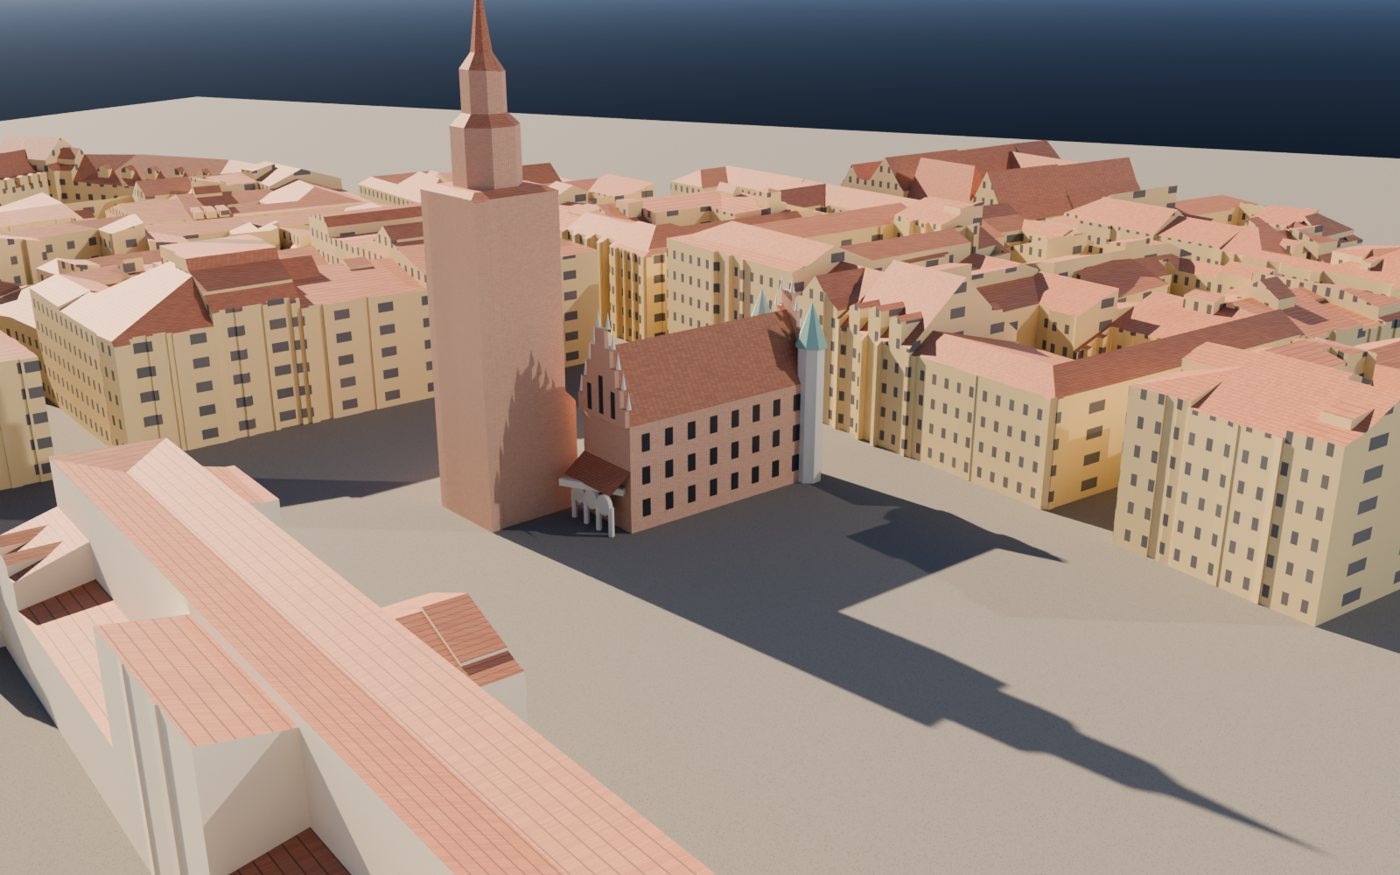
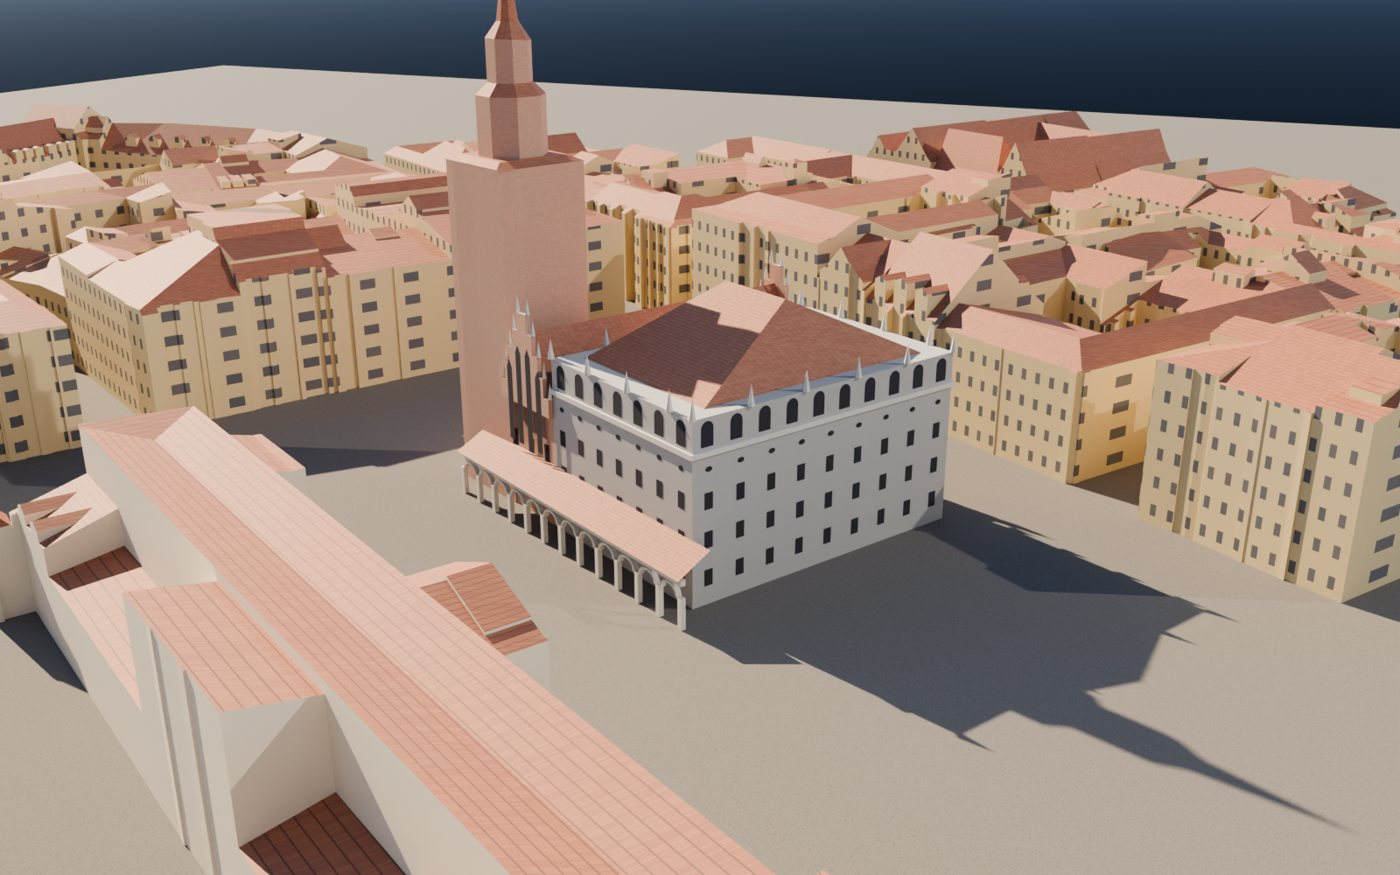
feat(3d): Town Hall rebuilt from the historical sources (v3)
The first model was a single Gothic hall; the sources show a larger complex around 1800.
Now after the ground plan (Tab. I), K. Balicki's elevations (1851), F. C. Dietrich (1820)
and M. Stachowicz (1797), all public domain on Commons:
- grey north block with a Renaissance attic (round blind arches, crest of pinnacles),
  oval windows, three rows of windows, a hipped roof behind the attic
- red-brick Gothic hall perpendicular to the Cloth Hall with stepped gables and pointed windows
- south-west prison wing with a crenellated gallery; an arcaded porch along the market front
Scale from the tower (plan has no scale bar), stated as approximate.

diff --git a/src/data/lens.ts b/src/data/lens.ts
@@ -55,8 +55,8 @@ export const lensPoints: LensPoint[] = [
       {
         key: 'ratusz-1800',
         year: 'c.1800',
-        title: 'Reconstruction: the Town Hall before 1820, its outline and height only (not a view)',
-        credit: 'KrakowLoop reconstruction after the city plan by D. Pucek (1787) and M. Kowalski, P. Opaliński (Historical Museum of Kraków); buildings: GUGiK LoD2',
+        title: 'Reconstruction: the Town Hall before 1820, after the 1851 elevations and the ground plan (not a view)',
+        credit: 'KrakowLoop reconstruction after K. Balicki (1851), the ground plan (Tab. I), F. C. Dietrich (1820) and M. Stachowicz (1797); buildings: GUGiK LoD2',
         license: 'CC BY 4.0',
         sourceUrl: 'https://pl.wikipedia.org/wiki/Ratusz_w_Krakowie',
         image: require('../../assets/lens/ratusz_1800_rekonstrukcja.jpg'),

diff --git a/scripts/3d/render-rynek-1800.py b/scripts/3d/render-rynek-1800.py
@@ -6,16 +6,17 @@ Town Hall ("then") and without it ("today"), for the Time Lens comparison.
 Run (no window):
   "C:/Program Files/Blender Foundation/Blender 5.2/blender.exe" -b -P scripts/3d/render-rynek-1800.py -- <out dir> [samples]
 
-What is known and used (sources in the app's credits):
-  - Town Hall: stone and brick, rectangle 30 x 10 m, perpendicular to the Cloth Hall, in the
-    south-western part of the square; the tower adjoined it on the south-east; three storeys;
-    stepped, blind-arched gables with pinnacles; octagonal turrets on the western corners; an arcaded
-    loggia on the eastern corner. Demolished 1820 (the tower stayed). pl.wikipedia.org/wiki/Ratusz_w_Krakowie,
-    medievalheritage.eu (after M. Kowalski and P. Opaliński, Historical Museum of Kraków);
-    position after the city plan by Dominik Pucek, 1787.
-  - Everything else: GUGiK LoD2 3D buildings, 2017 (CC BY 4.0) = today's massing.
-What is NOT known and is only suggested: exact heights, the gables' exact drawing, window rhythm,
-colours. The picture is labelled in the app as a reconstruction, not a view.
+What is known and used (Wikimedia Commons, public domain; copies and licences in
+02_dane/media_pd/ratusz/sources.json):
+  - the ground plan "Rzuty poziome" (Tab. I, before 1900): the parts of the complex and where they stand;
+  - Karol Balicki's elevations (1851): the north block's Renaissance attic with round blind arches and a
+    crest of pinnacles, oval windows under it, three rows of windows; the Gothic wing's stepped gable;
+  - F. C. Dietrich, view of the square and the Town Hall (1820): the hipped roof, the arcaded porch;
+  - M. Stachowicz, Kościuszko's Oath (1797): colours (grey block, red brick wing, red roofs);
+  - pl.wikipedia.org/wiki/Ratusz_w_Krakowie: demolished 1820, the tower kept.
+  Today's buildings: GUGiK LoD2 3D buildings, 2017 (CC BY 4.0).
+NOT known, only suggested: the plan has no scale bar (its tower is taken as 10 m wide), exact heights,
+window counts, colours of each part. Labelled in the app as a reconstruction, not a view.
 """
 import math
 import sys
@@ -165,7 +166,7 @@ STONE = material("stone", (0.70, 0.66, 0.58))
 CLOTH = material("cloth hall", (0.84, 0.76, 0.60))
 COBBLE = node_material("square", cobble_graph, 0.95)
 COPPER = material("copper", (0.25, 0.42, 0.36), 0.6)
-WINDOW = material("window", (0.03, 0.03, 0.04), 0.3)
+WINDOW = material("window", (0.03, 0.03, 0.04), 0.9)
 
 # today's buildings
 bpy.ops.import_scene.gltf(filepath=GLB)
@@ -183,16 +184,21 @@ bpy.ops.mesh.primitive_plane_add(size=900, location=(0, 0, 0))
 bpy.context.object.data.materials.append(COBBLE)
 
 # ---------------------------------------------------------------- the Town Hall, around 1800
-# axes measured on the GUGiK outlines: the Cloth Hall runs 62.8° from east, so the Town Hall
-# (perpendicular to it) runs -27.2°; the tower's centre is at (-45.6, -19.1)
+# After the ground plan in "Rzuty poziome" (Tab. I, lithograph before 1900, public domain: west at the
+# top, east at the bottom, south left, north right), the elevations by Karol Balicki (1851), the view
+# by F. C. Dietrich (1820) and M. Stachowicz's "Kościuszko's Oath" (1797). The plan has no scale bar:
+# its tower is taken as 10 m wide, which gives a complex of about 47 x 38 m and a north-east front of
+# about 37 m, as in Balicki's elevation. Heights follow the elevations' proportions. Approximate.
+#
+# Axes of the square: E = along the square's east (perpendicular to the Cloth Hall), N = along the
+# Cloth Hall. The complex is laid out in (e, n) metres from its south-west corner.
 A = math.radians(-27.2)
-U = Vector((math.cos(A), math.sin(A), 0))  # along the hall, towards the east end
-V = Vector((-math.sin(A), math.cos(A), 0))  # across the hall, towards the north
+E_AX = Vector((math.cos(A), math.sin(A), 0))
+N_AX = Vector((-math.sin(A), math.cos(A), 0))
 TOWER = Vector((-45.6, -19.1, 0))
-# the hall stands north-west of the tower, a small courtyard between them
-CENTRE = TOWER - U * 22 + V * 12
-LENGTH, WIDTH, WALL = 30.0, 10.0, 14.0  # three storeys
-RIDGE = WALL + 9.0
+# the tower's centre in plan coordinates: e 32.2, n 5
+ORIGIN = TOWER - E_AX * 32.2 - N_AX * 5.0
+DEPTH, LONG = 38.4, 46.8  # e and n extent of the complex
 
 hall = bpy.data.collections.new("Town Hall 1800")
 scene.collection.children.link(hall)
@@ -205,8 +211,8 @@ def put(ob):
     return ob
 
 
-def local(u, v, z):
-    return CENTRE + U * u + V * v + Vector((0, 0, z))
+def at(e, n, z=0.0):
+    return ORIGIN + E_AX * e + N_AX * n + Vector((0, 0, z))
 
 
 def mesh(name, verts, faces, mat):
@@ -219,78 +225,120 @@ def mesh(name, verts, faces, mat):
     return put(ob)
 
 
-# walls: a box
-L2, W2 = LENGTH / 2, WIDTH / 2
-box = [local(u, v, z) for z in (0, WALL) for (u, v) in ((-L2, -W2), (L2, -W2), (L2, W2), (-L2, W2))]
-mesh("hall walls", box, [(0, 1, 2, 3), (4, 5, 6, 7), (0, 1, 5, 4), (1, 2, 6, 5), (2, 3, 7, 6), (3, 0, 4, 7)], BRICK)
+BOX_FACES = [(0, 1, 2, 3), (4, 5, 6, 7), (0, 1, 5, 4), (1, 2, 6, 5), (2, 3, 7, 6), (3, 0, 4, 7)]
 
-# windows: three storeys of eight on each long wall
-for side in (-W2 - 0.04, W2 + 0.04):
-    for storey in range(3):
-        for bay in range(8):
-            u = -L2 + 2.4 + bay * (LENGTH - 4.8) / 7
-            z = 1.8 + storey * 4.3
-            q = [local(u - 0.6, side, z), local(u + 0.6, side, z), local(u + 0.6, side, z + 2.3), local(u - 0.6, side, z + 2.3)]
-            mesh(f"window {side:+.0f} {storey} {bay}", q, [(0, 1, 2, 3)], WINDOW)
-# the gables' blind arcades: tall dark niches on the upper storey of each end
-for end in (-L2 - 0.66, L2 + 0.66):
-    for i in range(3):
-        v = -W2 + 2.5 + i * 2.5
-        q = [local(end, v - 0.45, WALL + 0.6), local(end, v + 0.45, WALL + 0.6), local(end, v + 0.45, WALL + 5.5 - abs(i - 1) * 1.5), local(end, v - 0.45, WALL + 5.5 - abs(i - 1) * 1.5)]
-        mesh(f"blind arch {end:+.0f} {i}", q, [(0, 1, 2, 3)], WINDOW)
 
-# roof: a steep gable roof along the hall
-roof = [local(-L2, -W2, WALL), local(L2, -W2, WALL), local(L2, 0, RIDGE), local(-L2, 0, RIDGE), local(L2, W2, WALL), local(-L2, W2, WALL)]
-mesh("hall roof", roof, [(0, 1, 2, 3), (3, 2, 4, 5)], ROOF)
+def box(name, e0, e1, n0, n1, z0, z1, mat):
+    v = [at(e, n, z) for z in (z0, z1) for (e, n) in ((e0, n0), (e1, n0), (e1, n1), (e0, n1))]
+    return mesh(name, v, BOX_FACES, mat)
 
-# stepped gables at both ends, a little proud of the roof: five steps each side
-for end in (-L2 - 0.05, L2 + 0.05):
+
+def openings(name, face, a0, a1, fixed, rows, per_row, z0, storey, w, h, mat=None, oval=False, round_top=False):
+    """Dark openings on a wall: face 'e' (wall at e = fixed, runs along n) or 'n' (wall at n = fixed)."""
+    for r in range(rows):
+        for k in range(per_row):
+            c = a0 + (k + 0.5) * (a1 - a0) / per_row
+            z = z0 + r * storey
+            if oval:
+                pts = [(c + math.cos(t) * w / 2, z + h / 2 + math.sin(t) * h / 2) for t in (i * math.pi / 6 for i in range(12))]
+            elif round_top:
+                # a round-headed blind arch: straight sides, a half circle on top
+                pts = [(c - w / 2, z), (c + w / 2, z)] + [(c + math.cos(t) * w / 2, z + h - w / 2 + math.sin(t) * w / 2) for t in (i * math.pi / 8 for i in range(9))] + [(c - w / 2, z)]
+                pts = pts[:-1]
+            else:
+                pts = [(c - w / 2, z), (c + w / 2, z), (c + w / 2, z + h), (c - w / 2, z + h)]
+            verts = [at(fixed, x, zz) if face == 'e' else at(x, fixed, zz) for (x, zz) in pts]
+            mesh(f"{name} {r} {k}", verts, [tuple(range(len(verts)))], mat or WINDOW)
+
+
+GREY = material("grey render", (0.46, 0.44, 0.41))
+
+# 1) the north block: granaries and offices, rendered grey, three storeys under a Renaissance attic
+N0, N1, WALL_N = 20.3, LONG, 17.0
+box("north block", 0, DEPTH, N0, N1, 0, WALL_N, GREY)
+# the attic: a parapet on top, blind round arches on its faces, a crest of pinnacles
+box("attic", -0.3, DEPTH + 0.3, N0 - 0.3, N1 + 0.3, WALL_N, WALL_N + 0.6, STONE)  # cornice
+box("attic wall", 0, DEPTH, N0, N1, WALL_N + 0.6, WALL_N + 4.2, GREY)
+for face, a0, a1, fixed, n in (("n", 0, DEPTH, N1 + 0.03, 10), ("n", 0, DEPTH, N0 - 0.03, 10), ("e", N0, N1, DEPTH + 0.03, 7), ("e", N0, N1, -0.03, 7)):
+    openings(f"attic arch {face}{fixed:.0f}", face, a0, a1, fixed, 1, n, WALL_N + 1.0, 0, 1.6, 2.8, WINDOW, round_top=True)
+    # crest: a pinnacle between every second arch
+    for k in range(0, n + 1, 2):
+        c = a0 + k * (a1 - a0) / n
+        loc = at(fixed, c, WALL_N + 5.4) if face == 'e' else at(c, fixed, WALL_N + 5.4)
+        bpy.ops.mesh.primitive_cone_add(vertices=6, radius1=0.45, depth=2.4, location=loc)
+        put(bpy.context.object).data.materials.append(STONE)
+# windows: three rows on the east (market) and north fronts, a row of oval windows under the attic
+openings("north block windows E", "e", N0, N1, DEPTH + 0.03, 3, 7, 2.2, 4.4, 1.1, 1.9)
+openings("north block ovals E", "e", N0, N1, DEPTH + 0.03, 1, 7, 15.2, 0, 0.9, 0.6, oval=True)
+openings("north block windows N", "n", 0, DEPTH, N1 + 0.03, 3, 9, 2.2, 4.4, 1.1, 1.9)
+openings("north block ovals N", "n", 0, DEPTH, N1 + 0.03, 1, 9, 15.2, 0, 0.9, 0.6, oval=True)
+# a large hipped roof behind the attic, as Dietrich drew it in 1820
+rz, rt = WALL_N + 3.4, WALL_N + 12.0
+roof_v = [at(1.5, N0 + 1.5, rz), at(DEPTH - 1.5, N0 + 1.5, rz), at(DEPTH - 1.5, N1 - 1.5, rz), at(1.5, N1 - 1.5, rz),
+          at(DEPTH / 2, N0 + 8, rt), at(DEPTH / 2, N1 - 8, rt)]
+mesh("north block roof", roof_v, [(0, 1, 4), (1, 2, 5, 4), (2, 3, 5), (3, 0, 4, 5)], ROOF)
+
+# 2) the Gothic hall in the middle (Town Hall chamber and Lords' Room): red brick, perpendicular to the
+# Cloth Hall, a steep roof along it and stepped, blind-arched gables at both ends
+M0, M1, WALL_M = 9.5, 20.3, 14.0
+RIDGE = WALL_M + 9.0
+box("gothic hall", 0, DEPTH, M0, M1, 0, WALL_M, BRICK)
+mid = (M0 + M1) / 2
+mesh("gothic roof", [at(0, M0, WALL_M), at(DEPTH, M0, WALL_M), at(DEPTH, mid, RIDGE), at(0, mid, RIDGE), at(DEPTH, M1, WALL_M), at(0, M1, WALL_M)],
+     [(0, 1, 2, 3), (3, 2, 4, 5)], ROOF)
+for end in (-0.05, DEPTH + 0.05):
     steps = 5
+    out = 0.6 if end > 0 else -0.6
     for i in range(steps):
-        v0 = -W2 + i * (W2 / steps)
-        v1 = W2 - i * (W2 / steps)
-        z0 = WALL + (RIDGE + 2.5 - WALL) * i / steps
-        z1 = WALL + (RIDGE + 2.5 - WALL) * (i + 1) / steps
-        g = [local(end, v0, z0), local(end, v1, z0), local(end, v1, z1), local(end, v0, z1)]
-        g2 = [p + U * (0.6 if end > 0 else -0.6) for p in g]
-        mesh(f"gable step {i}", g + g2, [(0, 1, 2, 3), (4, 5, 6, 7), (0, 1, 5, 4), (1, 2, 6, 5), (2, 3, 7, 6), (3, 0, 4, 7)], BRICK)
-        # a pinnacle on each step's corners
-        for v in (v0, v1):
-            bpy.ops.mesh.primitive_cone_add(vertices=6, radius1=0.35, depth=2.2, location=local(end, v, z1 + 1.1))
+        n0 = M0 + i * (mid - M0) / steps
+        n1 = M1 - i * (M1 - mid) / steps
+        z0 = WALL_M + (RIDGE + 2.5 - WALL_M) * i / steps
+        z1 = WALL_M + (RIDGE + 2.5 - WALL_M) * (i + 1) / steps
+        g = [at(end, n0, z0), at(end, n1, z0), at(end, n1, z1), at(end, n0, z1)]
+        g2 = [p + E_AX * out for p in g]
+        mesh(f"gable step {end:.0f} {i}", g + g2, BOX_FACES, BRICK)
+        for nn in (n0, n1):
+            bpy.ops.mesh.primitive_cone_add(vertices=6, radius1=0.3, depth=2.0, location=at(end + out / 2, nn, z1 + 1.0))
             put(bpy.context.object).data.materials.append(STONE)
+    # tall pointed blind arches and windows in the gable, as in Balicki's north-west view
+    for k in range(4):
+        c = M0 + 2.2 + k * (M1 - M0 - 4.4) / 3
+        top = WALL_M + 7.5 - abs(k - 1.5) * 2.2
+        pts = [(c - 0.55, WALL_M - 5.0), (c + 0.55, WALL_M - 5.0), (c + 0.55, top), (c, top + 1.0), (c - 0.55, top)]
+        verts = [at(end + out * 1.02, x, z) for (x, z) in pts]
+        mesh(f"gothic window {end:.0f} {k}", verts, [tuple(range(5))], WINDOW)
+openings("gothic hall windows E", "e", M0, M1, DEPTH + 0.03, 2, 3, 2.5, 5.0, 1.1, 2.6)
 
-# octagonal turrets on the western corners
-for v in (-W2, W2):
-    base = local(-L2, v, 0)
-    bpy.ops.mesh.primitive_cylinder_add(vertices=8, radius=1.9, depth=WALL + 5, location=base + Vector((0, 0, (WALL + 5) / 2)))
-    put(bpy.context.object).data.materials.append(STONE)
-    bpy.ops.mesh.primitive_cone_add(vertices=8, radius1=2.3, depth=6, location=base + Vector((0, 0, WALL + 5 + 3)))
-    put(bpy.context.object).data.materials.append(COPPER)
+# 3) the south-west wing: prisons and the courtyard, lower, with an arcaded, crenellated gallery
+box("prison wing", 0, 14.8, 0, M0, 0, 9.0, GREY)
+mesh("prison roof", [at(0, 0, 9.0), at(14.8, 0, 9.0), at(14.8, M0 / 2, 13.0), at(0, M0 / 2, 13.0), at(14.8, M0, 9.0), at(0, M0, 9.0)],
+     [(0, 1, 2, 3), (3, 2, 4, 5)], ROOF)
+box("courtyard wall", 14.8, 26.8, 0, 0.8, 0, 6.5, STONE)
+openings("courtyard gallery", "n", 15.2, 26.4, -0.03, 1, 5, 3.4, 0, 1.4, 2.2)
+for k in range(9):
+    e = 15.0 + k * 1.45
+    box(f"merlon {k}", e, e + 0.8, 0, 0.8, 6.5, 7.4, STONE)
 
-# the arcaded loggia on the eastern corner, facing the Cloth Hall: three arches on four piers under
-# a small tiled lean-to roof
-LOG_U = L2 + 2.4
-for i in range(4):
-    bpy.ops.mesh.primitive_cube_add(size=1, location=local(LOG_U, -W2 + 1.0 + i * 2.7, 1.9), scale=(0.55, 0.55, 3.8))
-    put(bpy.context.object).data.materials.append(STONE)
-for i in range(3):
-    # a round arch over each opening: a band of stone along a half circle, spring points on the piers
-    mid_v, spring, r_in, r_out, depth, n = -W2 + 2.35 + i * 2.7, 3.8, 1.1, 1.45, 0.28, 16
-    verts, faces = [], []
-    for k in range(n + 1):
-        t = math.pi * k / n
+# 4) the arcaded porch (ganek) along the whole market front, as on the plan and in Dietrich's view
+G0, G1 = DEPTH, DEPTH + 3.8
+arches = 12
+for k in range(arches + 1):
+    n = 4.0 + k * (LONG - 4.0 + 2.7) / arches
+    box(f"porch pier {k}", G1 - 0.6, G1, n - 0.3, n + 0.3, 0, 3.6, STONE)
+for k in range(arches):
+    n = 4.0 + (k + 0.5) * (LONG - 4.0 + 2.7) / arches
+    r_in, r_out, verts, faces, nn = 1.25, 1.55, [], [], 12
+    for i in range(nn + 1):
+        t = math.pi * i / nn
         for r in (r_in, r_out):
-            for du in (-depth, depth):
-                verts.append(local(LOG_U + du, mid_v - r * math.cos(t), spring + r * math.sin(t)))
-    for k in range(n):
-        q = k * 4
-        # inner, outer, front, back faces of this segment
+            for de in (-0.6, 0.0):
+                verts.append(at(G1 + de, n - r * math.cos(t), 3.6 + r * math.sin(t) * 0.8))
+    for i in range(nn):
+        q = i * 4
         faces += [(q, q + 1, q + 5, q + 4), (q + 2, q + 3, q + 7, q + 6), (q, q + 2, q + 6, q + 4), (q + 1, q + 3, q + 7, q + 5)]
-    mesh(f"loggia arch {i}", verts, faces, STONE)
-bpy.ops.mesh.primitive_cube_add(size=1, location=local(LOG_U, -W2 + 5.05, 5.4), scale=(0.7, 9.0, 0.9))
-put(bpy.context.object).data.materials.append(STONE)
-lean = [local(L2, -W2, 8.2), local(L2, -W2 + 10.1, 8.2), local(LOG_U + 0.8, -W2 + 10.1, 5.8), local(LOG_U + 0.8, -W2, 5.8)]
-mesh("loggia roof", lean, [(0, 1, 2, 3)], ROOF)
+    mesh(f"porch arch {k}", verts, faces, STONE)
+box("porch beam", G1 - 0.6, G1, 4.0 - 0.3, LONG + 2.7 + 0.3, 5.0, 5.7, STONE)
+mesh("porch roof", [at(G0, 4.0 - 0.3, 8.0), at(G0, LONG + 3.0, 8.0), at(G1 + 0.4, LONG + 3.0, 5.7), at(G1 + 0.4, 4.0 - 0.3, 5.7)], [(0, 1, 2, 3)], ROOF)
 
 # ---------------------------------------------------------------- light and camera
 world = bpy.data.worlds.new("sky")
@@ -321,6 +369,7 @@ VIEW = argv[2] if len(argv) > 2 else "tower"
 cam = bpy.data.objects.new("camera", bpy.data.cameras.new("camera"))
 scene.collection.objects.link(cam)
 scene.camera = cam
+CENTRE = at(DEPTH / 2, LONG / 2)
 target = CENTRE + Vector((0, 0, 8))
 if VIEW == "plan":
     cam.data.type = "ORTHO"
@@ -328,8 +377,8 @@ if VIEW == "plan":
     cam.location = Vector((0, 0, 300))
     cam.rotation_euler = (0, 0, 0)
 elif VIEW == "street":
-    cam.location = CENTRE + U * 38 + V * 30 + Vector((0, 0, 1.7))
-    cam.rotation_euler = ((CENTRE + Vector((0, 0, 9))) - cam.location).to_track_quat("-Z", "Y").to_euler()
+    cam.location = at(DEPTH + 17, LONG + 22, 1.7)
+    cam.rotation_euler = ((at(DEPTH / 2, LONG / 2 - 6, 11)) - cam.location).to_track_quat("-Z", "Y").to_euler()
     cam.data.lens = 22
 else:
     cam.location = Vector((95, 70, 68))
